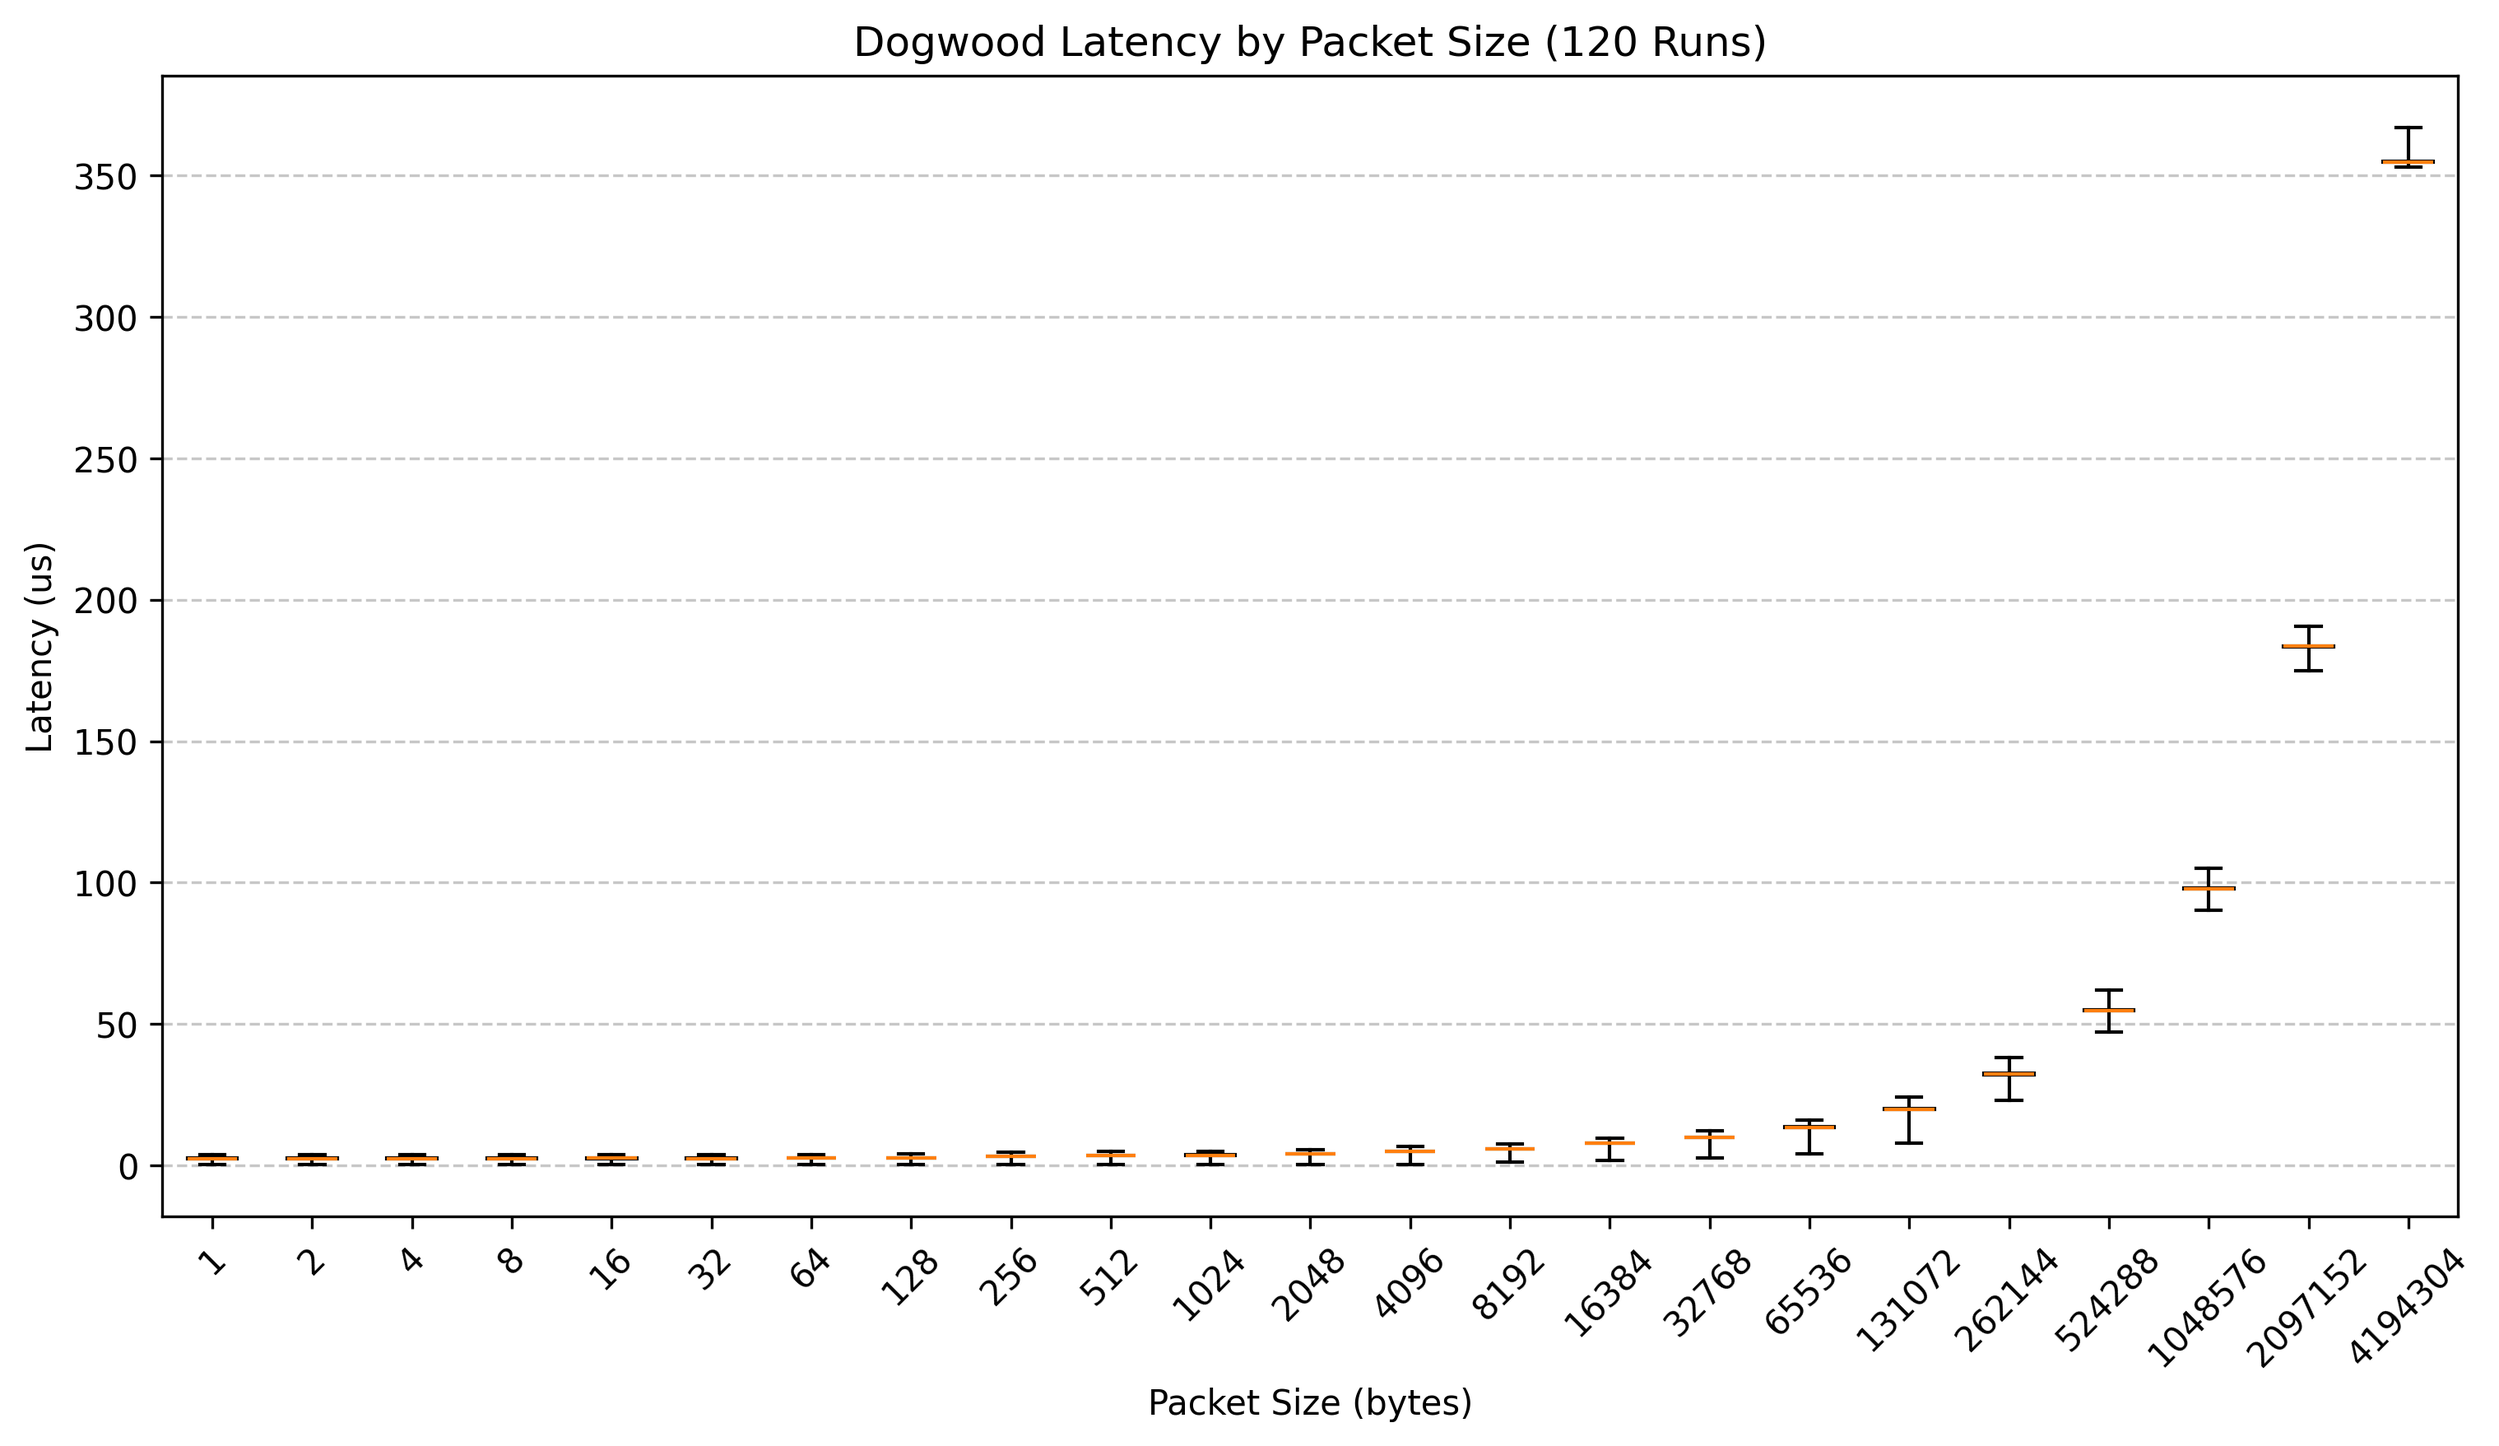
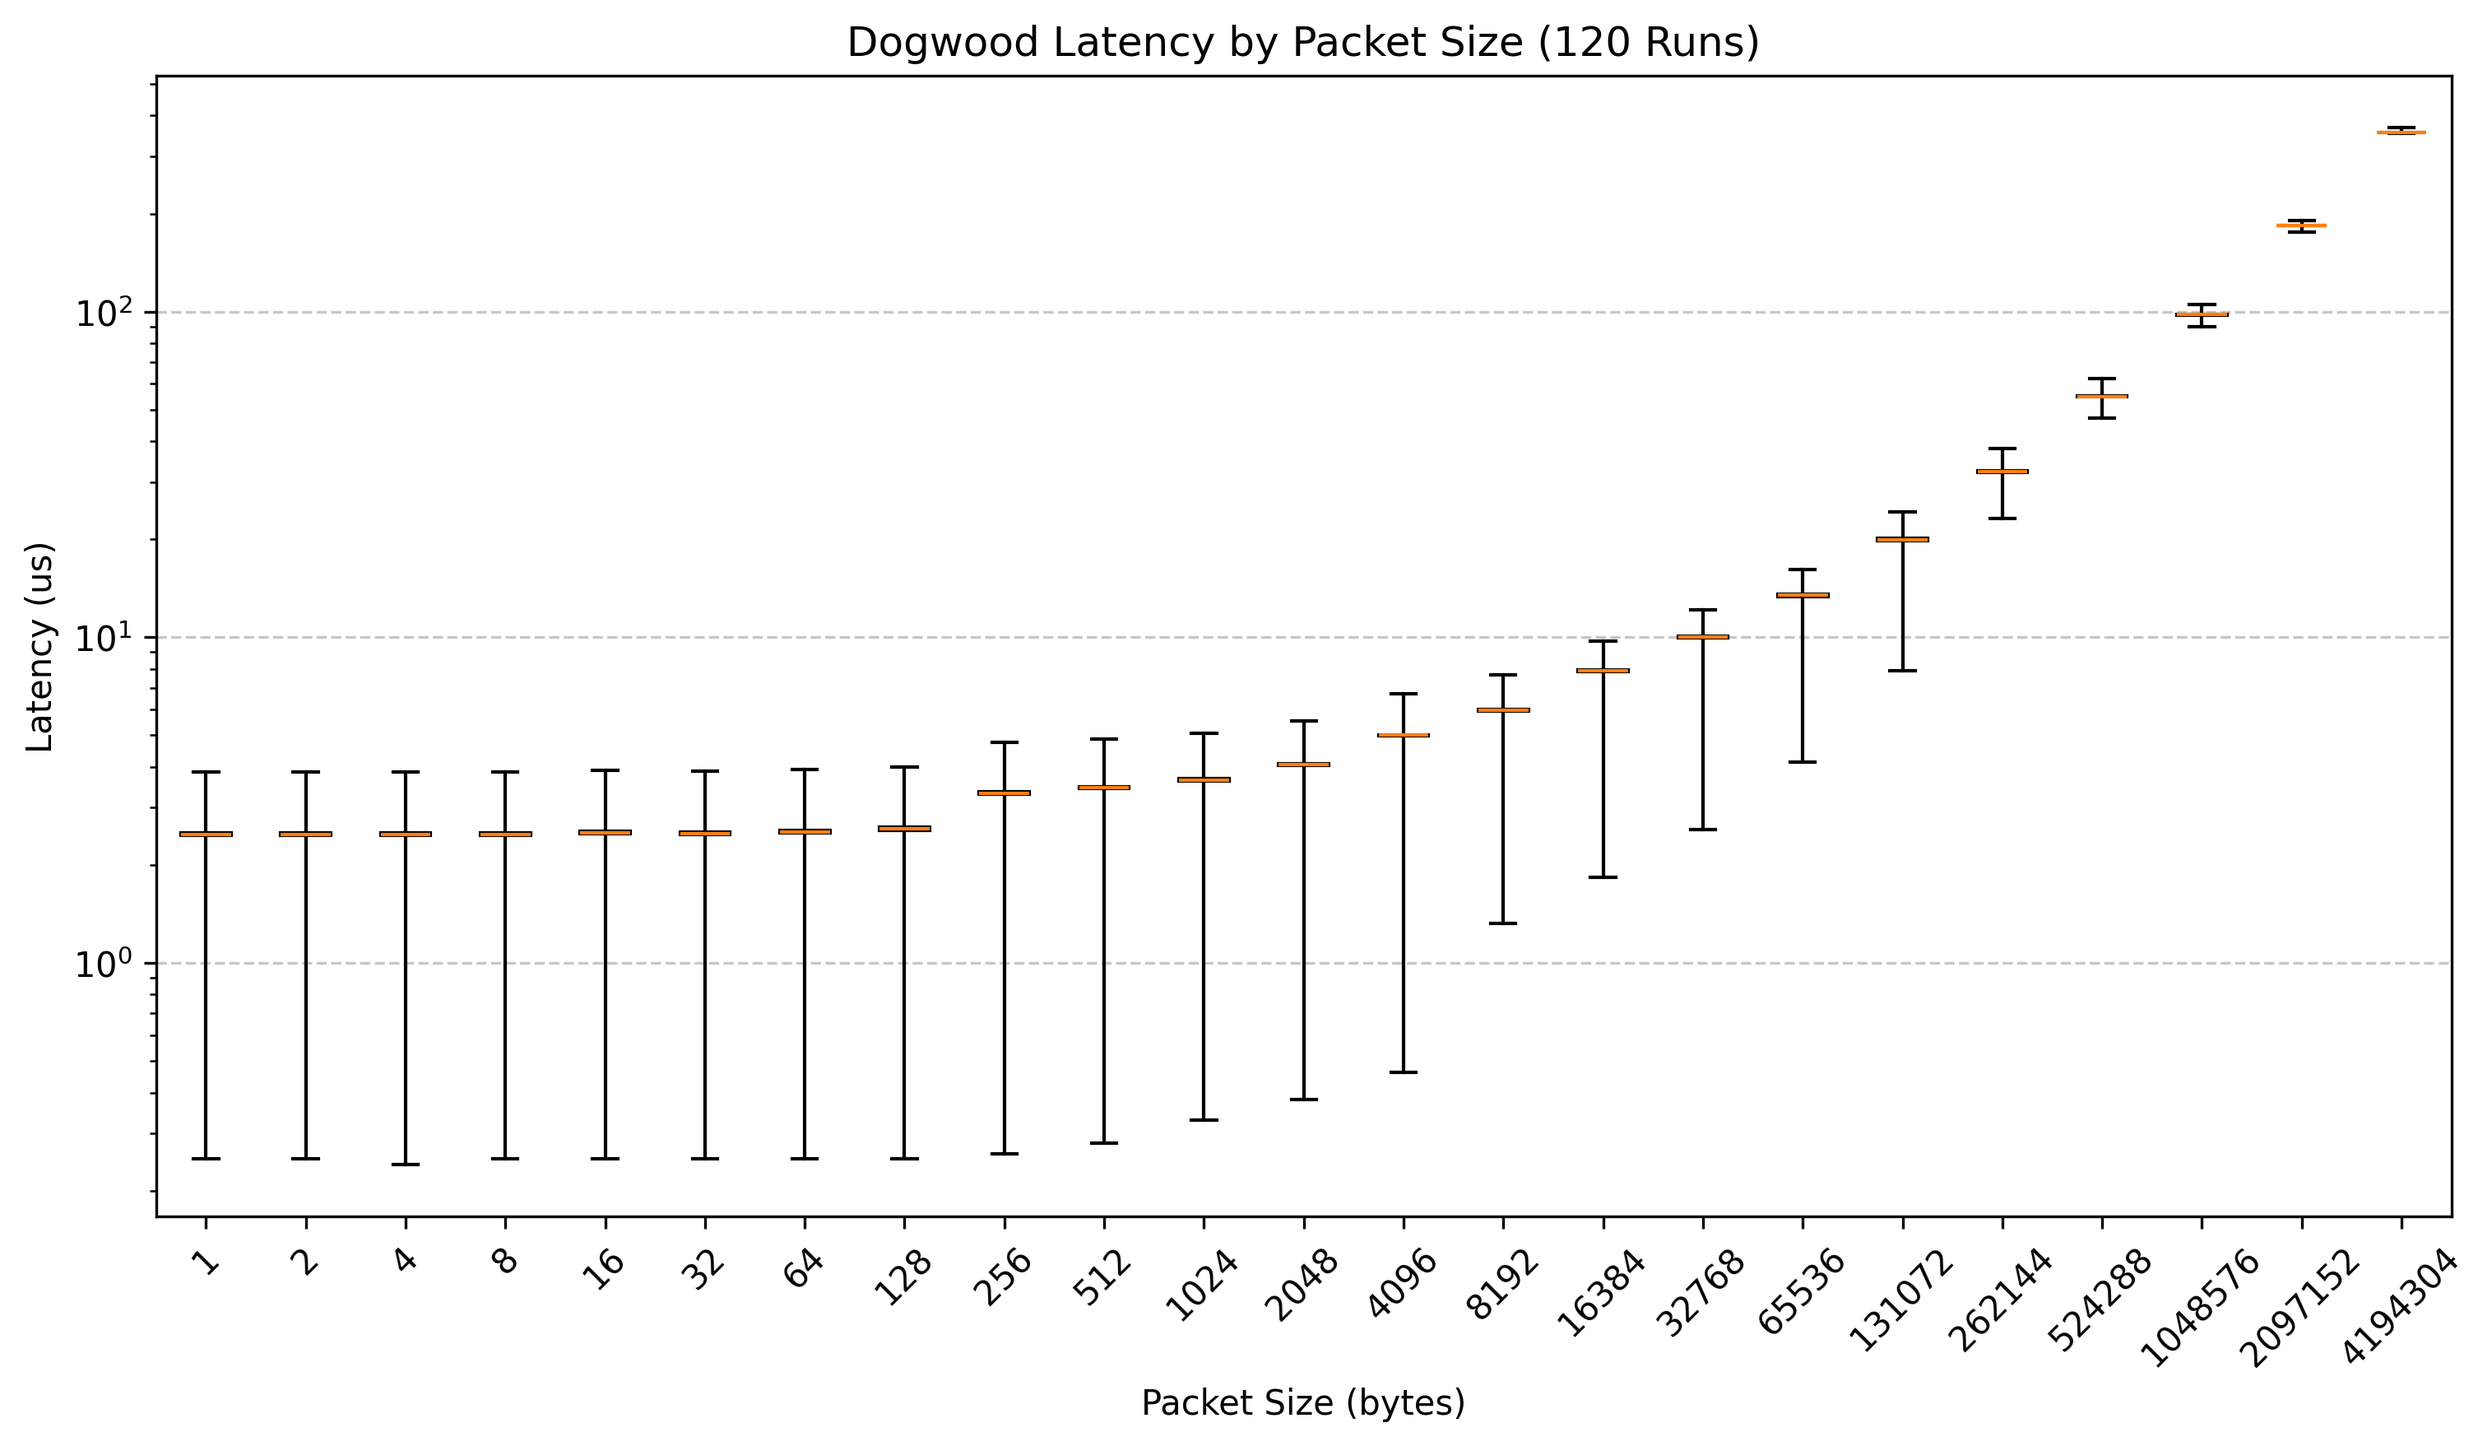
add log-log plotting

diff --git a/benchmarks/utils/stat_plot.py b/benchmarks/utils/stat_plot.py
@@ -59,18 +59,20 @@ def plot_boxplot(df, machine_name, output_dir, output_image="combined_boxplot.pn
         })
 
     fig, ax = plt.subplots(figsize=(12, 6))
-    
+
     # Draw the boxplots using the statistical summaries
     bp = ax.bxp(box_data, patch_artist=True, showfliers=False)
-    
+
     # Apply styling
     for patch in bp['boxes']:
         patch.set_facecolor('lightblue')
-        
+
     ax.set_title(f"{machine_name} Latency by Packet Size ({run_count} Runs)")
     ax.set_xlabel("Packet Size (bytes)")
     ax.set_ylabel("Latency (us)")
-    
+
+    ax.set_yscale('log')
+
     # Rotate x-axis labels if the numbers overlap
     plt.xticks(rotation=45)
     plt.grid(axis='y', linestyle='--', alpha=0.7)
@@ -79,7 +81,7 @@ def plot_boxplot(df, machine_name, output_dir, output_image="combined_boxplot.pn
 
     plt.savefig(outpath, dpi=300, bbox_inches='tight')
     print(f"\nBox plot successfully saved as '{output_image}'.")
-    
+
     plt.show()
 
 def main():
